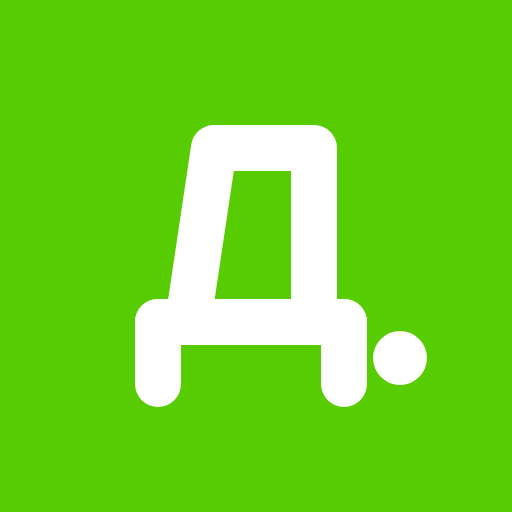
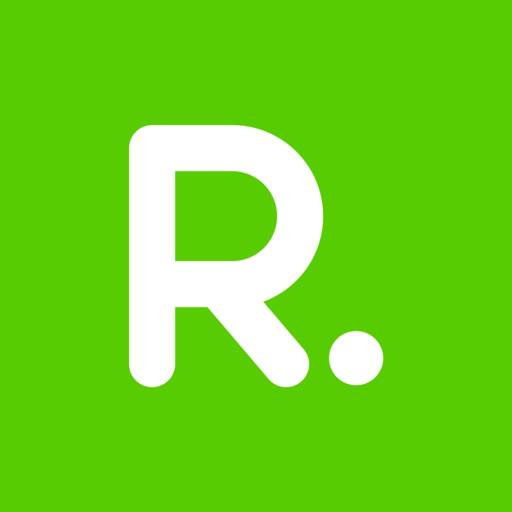
Переименование: «Диалог» → RocketTalk в интерфейсе
Имя продукта сменено по решению владельца. В браузере оно стоит в
заголовке вкладки, ярлыке iOS, тексте без JavaScript, манифесте PWA,
логотипе меню, подвале, шапке выгруженного разбора и имени файла
(rockettalk-ГГГГ-ММ-ДД.txt). Значок перерисован тем же штрихом: «Д.» → «R.»,
PNG 192/512 пересобраны из SVG.

Логотип в меню больше не переводится в строчные: «rockettalk» слипается
в одно слово. Ширина проверена в браузере: 182 из 196 px.

Сторожа двуязычности: прежнее «Диалог» в английском тексте теперь
утечка, а не исключение; RocketTalk законно стоит латиницей в русском.
Технические имена (ключи dialog.* в localStorage, кэш dialog-build-*)
не тронуты: смена ключа стёрла бы людям прогресс.

Changed region(s): [[0.25, 0.2188, 0.7188, 0.8125], [0.7188, 0.625, 0.8438, 0.75]]

diff --git a/frontend/src/lib/reportExport.ts b/frontend/src/lib/reportExport.ts
@@ -11,8 +11,8 @@ export interface ReportInput {
 }
 
 const LABELS = {
-  ru: { title: "Диалог · Разбор переговоров", scenario: "Ситуация", player: "Участник", date: "Дата", mode: "Режим", modes: { practice: "Практика", exam: "Экзамен", campaign: "Кампания", custom: "Своя ситуация", drill: "Практика курса" }, score: "Итог", economic: "Экономика", relationship: "Отношения", technique: "Техника", deal: "Результат", interests: "Раскрытые интересы", spin: "Этапы SPIN", criteria: "Объективные критерии", empathy: "Эмпатия", tradeoffs: "Обмен уступками", threats: "Угрозы", tips: "Что попробовать в следующий раз", turning: "Поворотные моменты", moves: "Ваши реплики", mentor: "Комментарий наставника", mentorStrength: "Что сработало", mentorGrowth: "Что изменить в следующий раз" },
-  en: { title: "Dialog · Negotiation report", scenario: "Situation", player: "Participant", date: "Date", mode: "Mode", modes: { practice: "Practice", exam: "Exam", campaign: "Campaign", custom: "Custom situation", drill: "Course practice" }, score: "Overall", economic: "Economics", relationship: "Relationship", technique: "Technique", deal: "Outcome", interests: "Interests uncovered", spin: "SPIN stages", criteria: "Objective criteria", empathy: "Empathy", tradeoffs: "Trade-offs", threats: "Threats", tips: "Try next time", turning: "Turning points", moves: "Your lines", mentor: "Mentor's comment", mentorStrength: "What worked", mentorGrowth: "What to change next time" },
+  ru: { title: "RocketTalk · Разбор переговоров", scenario: "Ситуация", player: "Участник", date: "Дата", mode: "Режим", modes: { practice: "Практика", exam: "Экзамен", campaign: "Кампания", custom: "Своя ситуация", drill: "Практика курса" }, score: "Итог", economic: "Экономика", relationship: "Отношения", technique: "Техника", deal: "Результат", interests: "Раскрытые интересы", spin: "Этапы SPIN", criteria: "Объективные критерии", empathy: "Эмпатия", tradeoffs: "Обмен уступками", threats: "Угрозы", tips: "Что попробовать в следующий раз", turning: "Поворотные моменты", moves: "Ваши реплики", mentor: "Комментарий наставника", mentorStrength: "Что сработало", mentorGrowth: "Что изменить в следующий раз" },
+  en: { title: "RocketTalk · Negotiation report", scenario: "Situation", player: "Participant", date: "Date", mode: "Mode", modes: { practice: "Practice", exam: "Exam", campaign: "Campaign", custom: "Custom situation", drill: "Course practice" }, score: "Overall", economic: "Economics", relationship: "Relationship", technique: "Technique", deal: "Outcome", interests: "Interests uncovered", spin: "SPIN stages", criteria: "Objective criteria", empathy: "Empathy", tradeoffs: "Trade-offs", threats: "Threats", tips: "Try next time", turning: "Turning points", moves: "Your lines", mentor: "Mentor's comment", mentorStrength: "What worked", mentorGrowth: "What to change next time" },
 };
 
 /** Deliberate public fields: no session tokens, raw transport objects or camera data. */
@@ -61,12 +61,17 @@ export function reportText(input: ReportInput): string {
   return lines.join("\n") + "\n";
 }
 
+/** Имя файла выгрузки: продукт и дата партии. */
+export function reportFileName(input: ReportInput, format: "txt" | "json"): string {
+  return `rockettalk-${input.createdAt.slice(0, 10)}.${format}`;
+}
+
 export function downloadReport(input: ReportInput, format: "txt" | "json"): void {
   const body = format === "txt" ? reportText(input) : JSON.stringify(reportSnapshot(input), null, 2) + "\n";
   const url = URL.createObjectURL(new Blob([body], { type: `${format === "txt" ? "text/plain" : "application/json"};charset=utf-8` }));
   const anchor = document.createElement("a");
   anchor.href = url;
-  anchor.download = `dialog-${input.createdAt.slice(0, 10)}.${format}`;
+  anchor.download = reportFileName(input, format);
   document.body.appendChild(anchor);
   try { anchor.click(); }
   finally { anchor.remove(); setTimeout(() => URL.revokeObjectURL(url), 1000); }

diff --git a/frontend/test/brand.test.ts b/frontend/test/brand.test.ts
@@ -1,0 +1,65 @@
+// brand.test.ts — имя продукта там, где его видит человек.
+//
+// Продукт переименован: «Диалог» → RocketTalk (решение владельца, 19.10). Имя
+// живёт не в одном словаре, а в россыпи мест, которые никакой другой тест не
+// читает: заголовок вкладки, ярлык на телефоне, манифест PWA, значок, логотип
+// в меню, подвал, шапка выгруженного разбора и имя файла. Пропущенное место
+// не валит ничего — человек просто видит два названия у одного продукта.
+//
+// Технические имена (`dialog.service`, ключи `dialog.*` в localStorage, кэш
+// `dialog-build-*`) остаются прежними намеренно: смена ключа хранилища стёрла
+// бы людям прогресс, смена юнита — сломала бы выкладку.
+import test from "node:test";
+import assert from "node:assert/strict";
+import { readFileSync } from "node:fs";
+import { I18N } from "../src/i18n";
+import { reportFileName, reportText, type ReportInput } from "../src/lib/reportExport";
+
+const BRAND = "RocketTalk";
+/** Прежнее имя в любом падеже и в английском написании. */
+const OLD = /Диалог|\bDialog\b/;
+
+const read = (rel: string) => readFileSync(new URL(`../${rel}`, import.meta.url), "utf-8");
+
+test("вкладка, ярлык и текст без JavaScript называют продукт RocketTalk", () => {
+  const html = read("index.html");
+  assert.match(html, /<title>RocketTalk\b[^<]*<\/title>/);
+  assert.match(html, /apple-mobile-web-app-title" content="RocketTalk"/);
+  const noscript = html.match(/<noscript>([\s\S]*?)<\/noscript>/)?.[1] ?? "";
+  assert.equal(noscript.split(BRAND).length - 1, 2, "имя нужно в обеих половинах — русской и английской");
+  assert.doesNotMatch(html, OLD);
+  assert.doesNotMatch(read("public/check.html"), OLD);
+  assert.match(read("public/check.html"), /<title>RocketTalk\b/);
+});
+
+test("манифест PWA: имя при установке и под значком", () => {
+  const m = JSON.parse(read("public/manifest.webmanifest"));
+  assert.equal(m.short_name, BRAND);
+  assert.ok(m.name.startsWith(`${BRAND} `), m.name);
+});
+
+test("значок называется RocketTalk", () => {
+  // Буква на значке тоже перерисована: «Д.» → «R.» тем же штрихом.
+  assert.match(read("public/icon.svg"), /aria-label="RocketTalk"/);
+});
+
+test("логотип в меню и подвал на обоих языках", () => {
+  assert.match(read("src/components/SideNav.tsx"), />\s*RocketTalk<span className="dot">/);
+  assert.match(read("src/App.tsx"), />\s*RocketTalk<span className="dot">/);
+  for (const lang of ["ru", "en"] as const) {
+    assert.ok(I18N[lang].footLeft.startsWith(`${BRAND} · `), I18N[lang].footLeft);
+  }
+});
+
+test("выгруженный разбор: шапка и имя файла", () => {
+  const input: ReportInput = {
+    lang: "ru", mode: "practice", createdAt: "2026-10-19T08:00:00.000Z",
+    debrief: { grade: "B", overall: 78, economic: 80, relationship: 90, technique: 65, status: "agreement", deal_text: "100 ₽", interests_found: 1, interests_total: 2, spin_stages: 2, objective_criteria: 1, empathy: 2, threats: 0, tradeoffs: 1, avg_arg: 60, tips: [], turning_points: [] },
+  };
+  for (const lang of ["ru", "en"] as const) {
+    const first = reportText({ ...input, lang }).split("\n")[0];
+    assert.ok(first.startsWith(`${BRAND} · `), first);
+  }
+  assert.equal(reportFileName(input, "txt"), "rockettalk-2026-10-19.txt");
+  assert.equal(reportFileName(input, "json"), "rockettalk-2026-10-19.json");
+});

diff --git a/frontend/index.html b/frontend/index.html
@@ -12,16 +12,16 @@
     <link rel="icon" type="image/png" sizes="192x192" href="/icon-192.png" />
     <link rel="apple-touch-icon" href="/icon-192.png" />
     <meta name="apple-mobile-web-app-capable" content="yes" />
-    <meta name="apple-mobile-web-app-title" content="Диалог" />
-    <title>Диалог — Negotiation Simulator</title>
+    <meta name="apple-mobile-web-app-title" content="RocketTalk" />
+    <title>RocketTalk — Negotiation Simulator</title>
   </head>
   <body>
     <div id="root"></div>
     <!-- Без JavaScript тренажёра нет: страница была пустой и ничего не объясняла (аудит 17.10, R04). -->
     <noscript>
       <p style="max-width:36em;margin:3em auto;padding:0 1em;font:16px/1.5 system-ui,sans-serif">
-        «Диалог» — тренажёр переговоров, и ему нужен JavaScript. Включите его в настройках браузера и обновите страницу.<br>
-        Dialog is a negotiation trainer and needs JavaScript. Enable it in your browser settings and reload the page.
+        RocketTalk — тренажёр переговоров, и ему нужен JavaScript. Включите его в настройках браузера и обновите страницу.<br>
+        RocketTalk is a negotiation trainer and needs JavaScript. Enable it in your browser settings and reload the page.
       </p>
     </noscript>
     <script type="module" src="/src/main.tsx"></script>

diff --git a/frontend/src/styles.css b/frontend/src/styles.css
@@ -2231,11 +2231,12 @@ textarea:focus-visible,
   padding: 26px 16px; position: sticky; top: 0; align-self: start;
   height: 100vh; overflow-y: auto;
 }
-/* Логотип — зелёный, строчными, самым тяжёлым начертанием, как «duolingo».
-   Логотип исключён из требований контраста WCAG (1.4.3), поэтому ему можно
-   то, что нельзя подписи. */
+/* Логотип — зелёный, самым тяжёлым начертанием, как «duolingo». Регистр —
+   как в имени: «rockettalk» строчными слипается в одно слово, RocketTalk
+   читается двумя. Логотип исключён из требований контраста WCAG (1.4.3),
+   поэтому ему можно то, что нельзя подписи. */
 .sn-brand {
-  font-size: 34px; font-weight: 900; letter-spacing: -0.03em; text-transform: lowercase;
+  font-size: 34px; font-weight: 900; letter-spacing: -0.03em;
   color: var(--brass); padding: 0 14px; margin-bottom: 30px; line-height: 1;
 }
 .sn-brand .dot { color: var(--brass); }

diff --git a/frontend/src/i18n.ts b/frontend/src/i18n.ts
@@ -1799,7 +1799,7 @@ export const I18N: Record<Lang, Strings> = {
       tradeoffs: ["размен", "размена", "разменов"],
       threats: ["угроза", "угрозы", "угроз"],
     },
-    footLeft: "Диалог · тренажёр переговоров",
+    footLeft: "RocketTalk · тренажёр переговоров",
     footRight: "исход зависит от вашей стратегии",
     gam: {
       rankLabel: "ранг",
@@ -2793,7 +2793,7 @@ export const I18N: Record<Lang, Strings> = {
       tradeoffs: ["trade-off", "trade-offs", "trade-offs"],
       threats: ["threat", "threats", "threats"],
     },
-    footLeft: "Диалог · Negotiation Skills Simulator",
+    footLeft: "RocketTalk · Negotiation Skills Simulator",
     footRight: "the outcome depends on your strategy",
     gam: {
       rankLabel: "rank",

diff --git a/frontend/src/components/SideNav.tsx b/frontend/src/components/SideNav.tsx
@@ -63,7 +63,7 @@ export function SideNav({ t, active, onMode, onProfile, onCourse, onAdmin }: Pro
   return (
     <nav className={`sidenav${more.left ? " more-left" : ""}${more.right ? " more-right" : ""}`} aria-label={t.a11y.nav}>
       <div className="sn-brand">
-        Диалог<span className="dot">.</span>
+        RocketTalk<span className="dot">.</span>
       </div>
       <ul ref={listRef}>
         {rows.map((r) => (

diff --git a/frontend/public/check.html b/frontend/public/check.html
@@ -3,7 +3,7 @@
 <head>
 <meta charset="utf-8" />
 <meta name="viewport" content="width=device-width, initial-scale=1" />
-<title>Диалог · проверка оборудования</title>
+<title>RocketTalk · проверка оборудования</title>
 <!--
   check.html — отдельная страница, а не экран приложения, и это осознанно.
 

diff --git a/frontend/src/App.tsx b/frontend/src/App.tsx
@@ -1092,7 +1092,7 @@ export default function App() {
         </div>
         <div className="brand">
           <span className="mark">
-            Диалог<span className="dot">.</span>
+            RocketTalk<span className="dot">.</span>
           </span>
           <span className="sub">{t.tagline}</span>
         </div>

diff --git a/frontend/public/sw.js b/frontend/public/sw.js
@@ -1,4 +1,4 @@
-// sw.js — minimal offline-shell service worker for «Диалог».
+// sw.js — minimal offline-shell service worker for RocketTalk.
 //
 // Anti-stale design: the cache name carries a VERSION. On activate we delete every
 // cache that isn't the current version, so a freshly deployed SW can never serve
